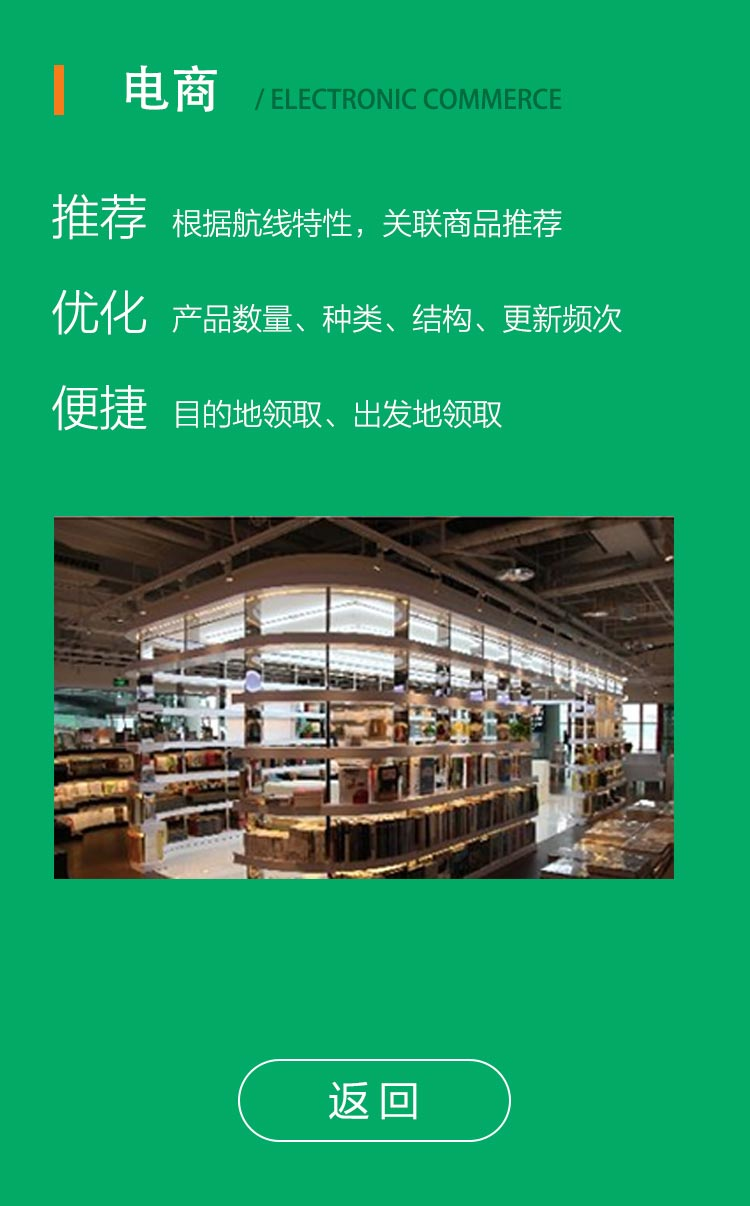
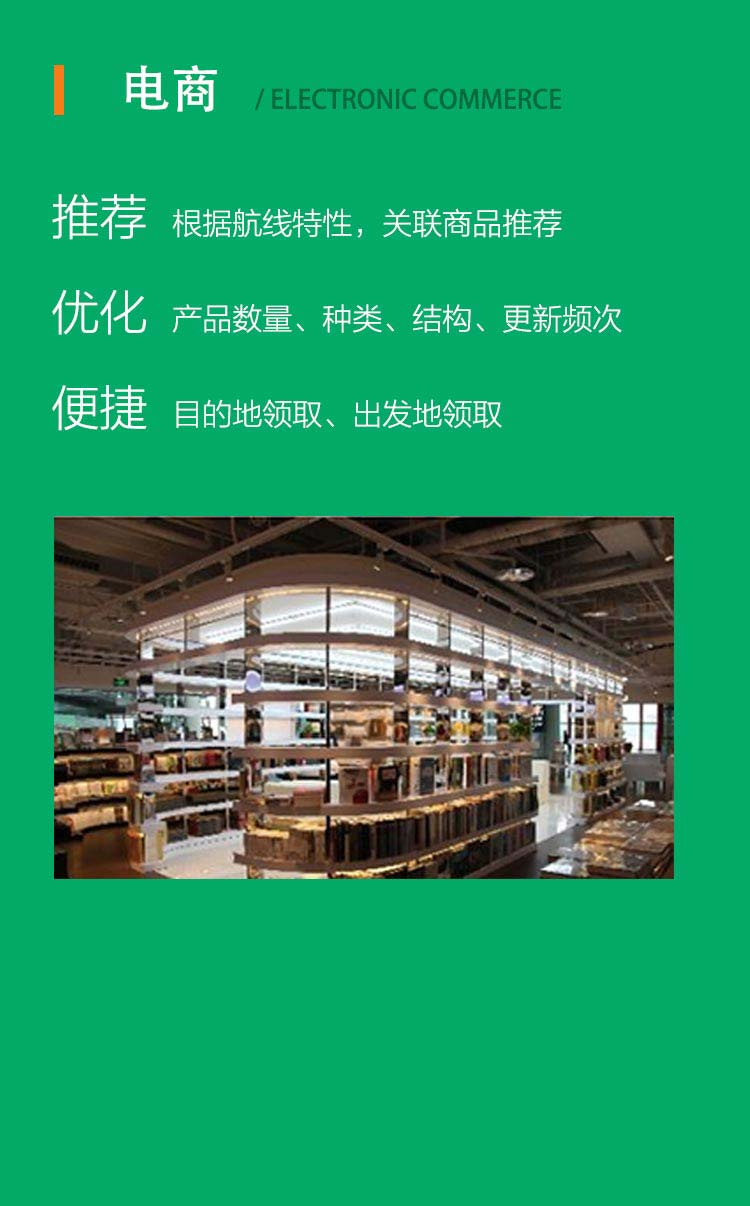
v8.3
update pic

Changed region(s): [[0.3067, 0.859, 0.644, 0.9511], [0.6747, 0.8897, 0.7053, 0.9204], [0.644, 0.9204, 0.6747, 0.9511]]

diff --git a/hkhl/b2b.html b/hkhl/b2b.html
@@ -1065,14 +1065,15 @@ a {
     .p2-cir2{left:42px;top:475px;width:183px;height:183px;z-index: 11;}
     .p2-cir4{left:464px;top:765px;width:120px;height:120px;z-index: 11;}
     .p2-cir3{left:265px;top:516px;width:262px;height:262px;z-index: 11;}
-    .p2-cir5{left:326px;top:339px;width:50px;height:50px;z-index: 11;}
-    .p2-cir6{left:114px;top:681px;width:38px;height:38px;z-index: 11;transform:translateX(183px);}
-    .p2-cir7{left:255px;top:834px;width:46px;height:46px;z-index: 11;}
+    .p2-cir5{left:239px;top:790px;width:50px;height:50px;z-index: 11;}
+    .p2-cir6{left:217px;top:327px;width:130px;height:130px;z-index: 11;/*transform:translateX(183px);*/}
+    .p2-cir7{left:360px;top:379px;width:46px;height:46px;z-index: 11;}
     .p2-cir8{left:657px;top:790px;width:16px;height:16px;z-index: 11;;}
     .p2-text1{left:517px;top:407px;width:97px;height:94px;z-index:12;}
-    .p2-text2{left:84px;top:502px;width:90px;height:127px;z-index:12;}
+    .p2-text2{left:84px;top:550px;width:90px;height:45px;z-index:12;}
     .p2-text3{left:325px;top:577px;width:138px;height:143px;z-index:12;}
     .p2-text4{left:488px;top:792px;width:72px;height:70px;z-index:12;}
+    .p2-text5{left:244px;top:366px;width:80px;height:40px;z-index:12;}
     .p2-bg{left:90px;top:337px;width:574px;height:515px;}
     .p2-cir{opacity: 0;transition:all .5s linear;}
     .current .p2-cir1{-webkit-animation: slideInLeft21 .3s 0s ease-out both;}
@@ -1148,7 +1149,7 @@ a {
 .p3-text5{left:132px;top:888px;width: 66px;height: 32px;}
 .p3-text6{left:538px;top:888px;width: 66px;height: 32px;}
 .p3-text7{left:343px;top:973px;width: 66px;height: 32px;}
-.scene-3 .p2-cir5{opacity: 0.5；-webkit-transform:translateX(0);}
+.scene-3 .p2-cir5{opacity: 0.5;-webkit-transform:translateX(0);}
 .scene-3 .p2-cir4{opacity: 0.5;-webkit-transform:translateX(0);}
 .scene-3 .p2-cir6{opacity: 0.5;-webkit-transform:translateX(0);}
 .p3-line{left:0;top:314px;width: 655px;height: 666px;}
@@ -1280,7 +1281,7 @@ a {
   .p5-4{left: 206px;top:692px;width: 354px;height: 110px;}
   .href-mail{position: absolute;width: 100%;height: 100%;}
   /* icon */
-  .icon{background-image: url(../images/icon.png);background-repeat: no-repeat;background-size: 960px auto;}
+  .icon{background-image: url(../images/icon1.png);background-repeat: no-repeat;background-size: 960px auto;}
   .icon-3-1{background-position: 0 0;width: 68px;height: 68px;}
   .icon-3-2{background-position: -160px 0;width: 84px;height: 81px;}
   .icon-3-3{background-position: -320px 0;width: 75px;height: 75px;}
@@ -1295,11 +1296,12 @@ a {
   .icon-4-5{background-position: -800px -160px;width: 62px;height: 62px;}
   .icon-4-6{background-position: 0 -320px;width: 50px;height: 64px;}
   /* text */
-  .text{background-image: url(../images/text.png);background-repeat: no-repeat;background-size: 960px auto;}
+  .text{background-image: url(../images/text1.png);background-repeat: no-repeat;background-size: 960px auto;}
   .text-2-1{background-position: 0 0;width: 97px;height: 94px;}
   .text-2-2{background-position: -160px 0;width: 90px;height: 127px;}
   .text-2-3{background-position: -320px 0;width: 138px;height: 143px;}
   .text-2-4{background-position: -640px -320px;width: 72px;height: 70px;}
+  .text-2-5{background-position: -800px -320px;width: 80px;height: 40px;}
   .text-3-1{background-position: -480px 0;width: 67px;height: 31px;}
   .text-3-2{background-position: -640px 0;width: 63px;height: 31px;}
   .text-3-3{background-position: -800px 0;width: 66px;height: 32px;}
@@ -1319,7 +1321,6 @@ a {
   .arrow-hide{display: none;}
 .float-mask{background:rgba(0,0,0,.9);width:100%;height:100%;opacity: 0;transition:opacity .5s;}
 .float-show .current .float-mask{opacity: 1;}
-.float-show{z-index:1000;}
 .float-mask .mc-wrap-detail.float-wrap-show{ -webkit-animation-name: float-s-ani; -webkit-animation-timing-function: ease-out; animation-timing-function: ease-out;-webkit-animation-delay:.1s;-webkit-animation-duration:.4s;}
     
     @-webkit-keyframes float-s-ani {
@@ -1341,11 +1342,13 @@ a {
               100%{opacity:0;transform:scale(0.3);-webkit-transform:scale(.3)}
 }
 /* sec */
-.mc-wrap-back{position: absolute;width: 500px;height: 100px;top:0;left: 0;font-size: 8rem;color: #fff;display: none;}
+.mc-wrap-back{position: absolute;bottom:148px;left: 233px;display: none;background-position:-160px -320px;width:273px;height:83px;}
 .float-show .mc-wrap-back{z-index: 31;display: block;}
 .mc-wrap-detail{width: 100%;height: 100%;}
 .secene-sec{position: absolute;top:0;left: 0;height: 100%;width: 100%;overflow: hidden;-webkit-transform-style: preserve-3d;transform-style: preserve-3d;-webkit-backface-visibility: hidden;backface-visibility: hidden;opacity: 0;/*background-color: #fff;*/}
 .secene-sec-current{opacity: 1;z-index: 20;}
+.scene-1 .mc-wrap-detail,.scene-2 .mc-wrap-detail{background-color:#0170cc;}
+.scene-3 .mc-wrap-detail{background-color:#03aa65;}
 </style>
 </head>
 <body>
@@ -1391,11 +1394,9 @@ a {
                 </div> -->
                 <!-- 二级页多个切换 -->
                 <div class="mc-wrap mc-wrap-detail">
-                    <div class="secene-sec secene-1-1 secene-sec-current" data-sec-index="0" data-sec-first="true" data-sec-last="true"><img src="../images/detail/detail1-1.jpg"></div>                    
+                    <div class="secene-sec secene-1-1" data-sec-index="0" data-sec-first="true" data-sec-last="true"><img src="../images/detail/detail1-1.jpg"></div>
                 </div>
-                <div class="mc-wrap mc-wrap-back">
-                    回主页
-                </div>
+                <div class="mc-wrap mc-wrap-back icon"></div>
             </div>
             <div class="mc mc-image delay_0_0s duration_0_8s mi-zoomIn p1-plane">
                             <div class="mc-wrap delay_1_8s duration_0_8s noAnimate">
@@ -1429,14 +1430,13 @@ a {
         <div class="opa-stage stage" data-index="2" data-id="opa_stage_2">
             <div class="mc mc-image delay_0_0s float-mask">
                 <div class="mc-wrap mc-wrap-detail">
-                    <div class="secene-sec secene-1-1 secene-sec-current" data-sec-index="0" data-sec-first="true"><img src="../images/detail/detail3-5.jpg"></div>
-                    <div class="secene-sec secene-1-2" data-sec-index="1"><img src="../images/detail/detail3-6.jpg"></div>
-                    <div class="secene-sec secene-1-3" data-sec-index="2"><img src="../images/detail/detail3-3.jpg"></div>
-                    <div class="secene-sec secene-1-4" data-sec-index="3" data-sec-last="true"><img src="../images/detail/detail3-4.jpg"></div>
+                    <div class="secene-sec secene-1-1" data-sec-index="0" data-sec-first="true"><img src="../images/detail/detail2-1.jpg"></div>
+                    <div class="secene-sec secene-1-2" data-sec-index="1"><img src="../images/detail/detail2-2.jpg"></div>
+                    <div class="secene-sec secene-1-3" data-sec-index="2"><img src="../images/detail/detail2-3.jpg"></div>
+                    <div class="secene-sec secene-1-4" data-sec-index="3"><img src="../images/detail/detail2-4.jpg"></div>
+                    <div class="secene-sec secene-1-5" data-sec-index="4" data-sec-last="true"><img src="../images/detail/detail2-5.jpg"></div>
                 </div>
-                <div class="mc-wrap mc-wrap-back">
-                    回主页
-                </div>
+                <div class="mc-wrap mc-wrap-back icon"></div>
             </div>
             <div class="mc mc-image delay_0_0s duration_0_8s mi-zoomIn title" data-type="image" data-anim="mi-zoomIn">
                                         <div class="mc-wrap delay_1_8s duration_0_8s noAnimate">
@@ -1451,19 +1451,19 @@ a {
             </div>
             <div class="mc mc-image p2-cir2 p-cir" data-detail="detail2-2">
                 <div class="mc-wrap delay_1_8s duration_0_8s noAnimate">
-                    <div class="img-wrap"><img src="../images/cir/cir_blue.png">
+                    <div class="img-wrap"><img src="../images/cir/cir_purple.png">
                     </div>
                 </div>
             </div>
             <div class="mc mc-image p2-cir3 p-cir" data-detail="detail2-3">
                 <div class="mc-wrap delay_1_8s duration_0_8s noAnimate">
-                    <div class="img-wrap"><img src="../images/cir/cir_oriange.png">
+                    <div class="img-wrap"><img src="../images/cir/cir_blue.png">
                     </div>
                 </div>
             </div>
             <div class="mc mc-image p2-cir4 p-cir" data-detail="detail2-4">
                 <div class="mc-wrap delay_1_8s duration_0_8s noAnimate">
-                    <div class="img-wrap"><img src="../images/cir/cir_purple.png">
+                    <div class="img-wrap"><img src="../images/cir/cir_oriange.png">
                     </div>
                 </div>
             </div>
@@ -1473,9 +1473,9 @@ a {
                     </div>
                 </div>
             </div>
-            <div class="mc mc-image p2-cir6 p-cir">
+            <div class="mc mc-image p2-cir6 p-cir" data-detail="detail2-5">
                 <div class="mc-wrap delay_1_8s duration_0_8s noAnimate">
-                    <div class="img-wrap"><img src="../images/cir/cir_green.png">
+                    <div class="img-wrap"><img src="../images/cir/cir_oriyel.png">
                     </div>
                 </div>
             </div>
@@ -1514,6 +1514,12 @@ a {
                     </div>
                 </div>
             </div>
+            <div class="mc mc-image p2-text5 p-text delay_0_3s duration_0_6s mi-zoomIn" data-detail="detail2-5">
+                            <div class="mc-wrap delay_1_8s duration_0_8s noAnimate">
+                               <div class="text text-2-5">
+                                </div>
+                            </div>
+                        </div>
             <div class="mc mc-image p2-bg p-bg delay_0_0s duration_0_3s mi-zoomIn">
                 <div class="mc-wrap delay_1_8s duration_0_8s noAnimate">
                     <div class="img-wrap"><img src="../images/bg/p2_bg.png">
@@ -1527,14 +1533,15 @@ a {
         <div class="opa-stage stage" data-index="3" data-id="opa_stage_3" style="background-image: url('../images/p3/p3_bg.jpg'); background-color: rgb(153, 153, 153);">
             <div class="mc mc-image delay_0_0s float-mask">
                 <div class="mc-wrap mc-wrap-detail">
-                    <div class="secene-sec secene-1-1 secene-sec-current" data-sec-index="0" data-sec-first="true"><img src="../images/sec_detail/sec_2_2_1.jpg"></div>
-                    <div class="secene-sec secene-1-2" data-sec-index="1"><img src="../images/sec_detail/sec_2_2_2.jpg"></div>
-                    <div class="secene-sec secene-1-3" data-sec-index="2"><img src="../images/detail/detail3-1.jpg"></div>
-                    <div class="secene-sec secene-1-4" data-sec-index="3" data-sec-last="true"><img src="../images/detail/detail3-2.jpg"></div>
+                    <div class="secene-sec secene-2-1" data-sec-index="0" data-sec-first="true"><img src="../images/detail/detail3-1.jpg"></div>
+                    <div class="secene-sec secene-2-2" data-sec-index="1"><img src="../images/detail/detail3-2.jpg"></div>
+                    <div class="secene-sec secene-2-3" data-sec-index="2"><img src="../images/detail/detail3-3.jpg"></div>
+                    <div class="secene-sec secene-2-4" data-sec-index="3"><img src="../images/detail/detail3-4.jpg"></div>
+                    <div class="secene-sec secene-2-4" data-sec-index="4"><img src="../images/detail/detail3-5.jpg"></div>
+                                        <div class="secene-sec secene-2-5" data-sec-index="5"><img src="../images/detail/detail3-6.jpg"></div>
+                                        <div class="secene-sec secene-2-6" data-sec-index="6" data-sec-last="true"><img src="../images/detail/detail3-7.jpg"></div>
                 </div>
-                <div class="mc-wrap mc-wrap-back">
-                    回主页
-                </div>
+                <div class="mc-wrap mc-wrap-back icon"></div>
             </div>
             <div class="mc mc-image delay_0_0s duration_0_8s mi-zoomIn title">
                                         <div class="mc-wrap delay_1_8s duration_0_8s noAnimate">
@@ -1669,7 +1676,7 @@ a {
 <!-- S scene4 -->
 <div class="J_opaPannel pannels scene-4" data-index="3">
         <div class="opa-stage stage" data-index="4" data-id="opa_stage_4" style="background-image: url('../images/p4/p4_bg.jpg'); background-color: rgb(153, 153, 153);">
-            <div class="mc mc-image float-mask"><div class="mc-wrap"><img src="../images/detail/detail2-2.jpg"></div></div>
+           <!-- <div class="mc mc-image float-mask"><div class="mc-wrap"><img src="../images/detail/detail2-2.jpg"></div></div>-->
             <div class="mc mc-image delay_0_0s duration_0_8s mi-zoomIn title">
                                         <div class="mc-wrap delay_1_8s duration_0_8s noAnimate">
                                             <div class="title"></div>
@@ -1805,11 +1812,9 @@ a {
         <div class="opa-stage stage" data-index="5" data-id="opa_stage_5" style="background-image: url(../images/bg/p5_bg.jpg); background-color: #0050b2 ;">
             <div class="mc mc-image delay_0_0s float-mask">
                 <div class="mc-wrap mc-wrap-detail">
-                    <div class="secene-sec secene-1-1 secene-sec-current" data-sec-index="0" data-sec-first="true" data-sec-last="true"><img src="../images/detail/detail5-1.jpg"></div>
+                    <div class="secene-sec secene-1-1" data-sec-index="0" data-sec-first="true" data-sec-last="true"><img src="../images/detail/detail5-1.jpg"></div>
                 </div>
-                <div class="mc-wrap mc-wrap-back">
-                    回主页
-                </div>
+                <div class="mc-wrap mc-wrap-back icon"></div>
             </div>
             <div class="mc mc-image delay_0_0s duration_0_8s mi-zoomIn title">
                             <div class="mc-wrap delay_1_8s duration_0_8s noAnimate">
@@ -1923,8 +1928,8 @@ a {
       "../images/bg_full.jpg",
       "../images/arrow_icon.png",
       "../images/title.png",
-      "../images/text.png",
-      "../images/icon.png",
+      "../images/text1.png",
+      "../images/icon1.png",
       "../images/cir/cir_blue_opacity.png",
       "../images/cir/cir_blue.png",
       "../images/cir/cir_green.png",
@@ -2151,28 +2156,25 @@ new PreLoad(tasks, {onload: loading});
                         floatDom[i].addEventListener(evs.touchup, function (ev) {
                             var t1 = this.getAttribute('data-detail');
                             var tDom = this.parentNode.querySelector('.float-mask .mc-wrap-detail');
+                            var detailDom = tDom.querySelectorAll('.secene-sec');
                             var that = this;
                             var fromDetailPage = (/\d+/).exec(t1)[0];
+                            var inDetailPage = (/\d+/).exec(t1.split('-')[1])[0]-1;
+                            console.log('fromDetailPage',fromDetailPage,'inDetailPage',inDetailPage);
                             var floatTimeout;
-
                             var nPage = opaPage.querySelector('.current');
                             var nDetailPage = parseInt(nPage.getAttribute('data-index'));
-                            if(floatTimeout){
-                                clearTimeout(floatTimeout);
+                            for(var i = 0;i<detailDom.length;i++){
+                                App.Utils.removeClass(detailDom[i],'secene-sec-current')
                             }
-                            //floatTimeout = setTimeout(function(){if (nDetailPage == fromDetailPage - 1) {
-                                                            //App.Utils.removeClass(opaPage, 'float-show-hide');
-                                                            opaPage.querySelector('.current .float-mask').style.zIndex = 20;
-                                                            App.Utils.addClass(opaPage, 'float-show');
-                                                            App.Utils.addClass(opaPage.querySelector('.current .float-mask .mc-wrap-detail'), 'float-wrap-show');
-                                                            //App.Utils.addClass(that.parentNode.querySelector('.float-mask'), 'mi-zoomIn');
-                                                        //}},400);
-
-
+                            opaPage.querySelector('.current .float-mask').style.zIndex = 20;
+                            App.Utils.addClass(opaPage, 'float-show');
+                            App.Utils.addClass(opaPage.querySelector('.current .float-mask .mc-wrap-detail'), 'float-wrap-show');
+                            App.Utils.addClass(detailDom[inDetailPage],'secene-sec-current');
                             /*if (t1.indexOf('1-') > -1) {
                             }
                             else if (t1.indexOf('2-') > -1) {
-                                tDom.innerHTML = '<img src="../images/detail/detail2-' + this.getAttribute('data-detail').split('2-')[1] + '.jpg">';
+                                detailDom[inDetailPage].addClass('secene-sec-current');
                             }
                             else if (t1.indexOf('3-') > -1) {
                                 tDom.innerHTML = '<img src="../images/detail/detail3-' + this.getAttribute('data-detail').split('3-')[1] + '.jpg">';
@@ -2182,20 +2184,15 @@ new PreLoad(tasks, {onload: loading});
                             }
                             else if (t1.indexOf('5-') > -1) {
 
-                            }       */   
-
-                            
-                            //return false;
+                            }*/
                         }, !1);
 
                     }
                 }                
                 for (var i = 0; i < floatClose.length; i++) {
                     floatClose[i].addEventListener(evs.touchup, function (ev) {   
-                    var that = this;      
-                    console.log('floatHideFlag',floatHideFlag);               
+                    var that = this;
                         if(floatHideFlag){
-
                         }
                         else{
                             floatHideFlag = true;
@@ -2203,14 +2200,11 @@ new PreLoad(tasks, {onload: loading});
                          App.Utils.addClass(opaPage.querySelector('.current .float-mask .mc-wrap-detail'),'float-wrap-hide');
                          App.Utils.removeClass(opaPage, 'float-show');
                         setTimeout(function(){
-                            console.log('222')
                             that.parentNode.style.zIndex = -1;
                             App.Utils.removeClass(opaPage.querySelector('.current .float-mask .mc-wrap-detail'), 'float-wrap-hide');
                             floatHideFlag = false;
                         },500);
-                        
                         }
-                        
                         //return false;
                     }, false);
                 }

diff --git a/js/spread.min.js b/js/spread.min.js
@@ -19,7 +19,7 @@
     }
 
     window.App = window.App || {};
-    var testn = 0;
+    var testn = 0,guideDom = document.getElementById('J_GuideTop');
     var _default = {page: "J_opaPage", pannel: "J_opaPannel"}, body = document.documentElement || document.body, EVENTS = {touchdown: "ontouchstart"in window ? "touchstart" : "mousedown", touchmove: "ontouchmove"in window ? "touchmove" : "mousemove", touchup: "ontouchend"in window ? "touchend" : "mouseup"}, userAgent = navigator.userAgent.toLowerCase(), browser = {version: userAgent.match(/(?:firefox|opera|safari|chrome|msie|applewebkit)[\/: ]([\d.]+)/)[1], safari: /version.+safari/.test(userAgent), chrome: /chrome/.test(userAgent), firefox: /firefox/.test(userAgent), ie: /msie/.test(userAgent), opera: /opera/.test(userAgent), webkit: /webkit/gi.test(userAgent)};
     App.Opa = App.Opa || Opa, App.secOpa = App.secOpa || secOpa, Opa.prototype = {init: function () {
         var len = 0;
@@ -69,7 +69,8 @@
                                     _this.set("prevent", !1);
                                     return false;
                                 }
-                                if(curDom.hasAttribute('data-sec-first')) {_this.set("sec-prevent",!1);return false;}
+                                if(curDom.hasAttribute('data-sec-first')) {_this.set("sec-prevent",!1);guideDom.style.zIndex = -1;return false;}
+                                guideDom.style.zIndex = 999;
                                 if(nowSecIndex > 0){
                                     nextIndex = nowSecIndex-1;
                                     next = nowSecDom[nextIndex];
@@ -91,7 +92,8 @@
                                     _this.set("prevent", !1);
                                     return false;
                                 }
-                                if(curDom.hasAttribute('data-sec-last')) {_this.set("sec-prevent",!1);return false;}                                
+                                if(curDom.hasAttribute('data-sec-last')) {_this.set("sec-prevent",!1);guideDom.style.zIndex = -1;return false;}
+                                guideDom.style.zIndex = 999;
                                 if(nowSecIndex < nowSecLength -1){
                                     nextIndex = nowSecIndex+1;
                                     next = nowSecDom[nextIndex];
